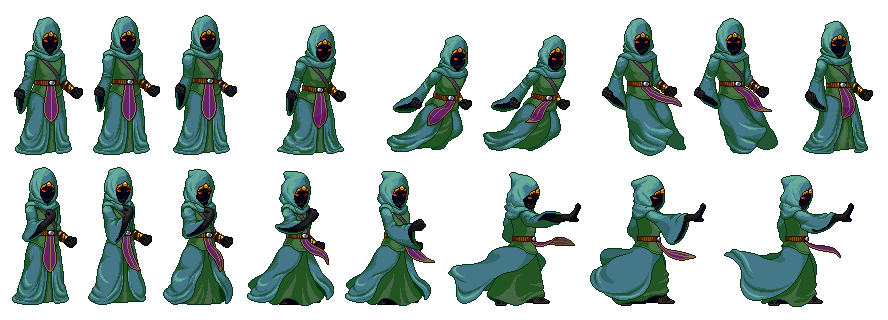
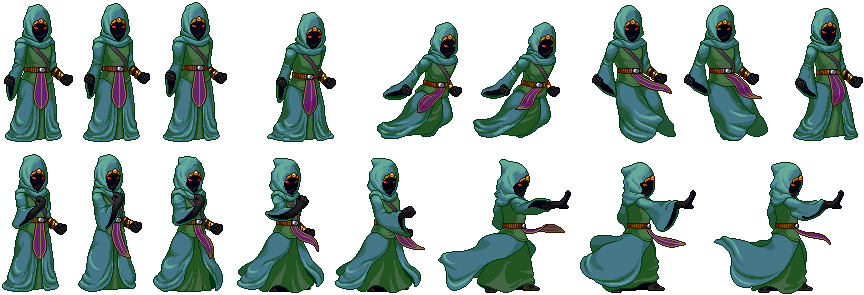
Parte do personagem e cenário prontos, falta tirar animação automatica, adicionar lógica dos botões e colisões

diff --git a/Sabertooth-master/Sabertooth/System.cpp b/Sabertooth-master/Sabertooth/System.cpp
@@ -68,57 +68,61 @@ int System::OpenGLSetup()
 
 int System::SystemSetup()
 {
-	coreShader = Shader( "Shaders/Core/core.vert", "Shaders/Core/core.frag", 3.42, 2, -0.1f, -1.0, -0.7);
-	coreShader2 = Shader("Shaders/Core/core.vert", "Shaders/Core/core.frag", 1.76, 0.64, -1.0f);
-	ceu = Shader("Shaders/Core/core.vert", "Shaders/Core/core.frag", 2, 2, 0.0f, -1.0, -0.8);
-	nuvem = Shader("Shaders/Core/core.vert", "Shaders/Core/core.frag", 2, 0.33, -0.01f,-1.0,0.65);
-	grama = Shader("Shaders/Core/core.vert", "Shaders/Core/core.frag", 3.42, 2, -0.9f);
+	sky = Shader("Shaders/Core/core.vert", "Shaders/Core/core.frag",        2.00f, 2.00f,  0.00f, -1.00f, -0.80f);
+	clouds = Shader("Shaders/Core/core.vert", "Shaders/Core/core.frag",     2.00f, 0.33f, -0.10f, -1.00f,  0.65f);
+	mountains = Shader( "Shaders/Core/core.vert", "Shaders/Core/core.frag", 3.42f, 2.00f, -0.20f, -1.00f, -0.70f);
+	grass = Shader("Shaders/Core/core.vert", "Shaders/Core/core.frag",      3.42f, 2.00f, -0.90f);
+	mage = Shader("Shaders/Core/core.vert", "Shaders/Core/core.frag",       0.402f, 0.432f, -1.00f,  0.00f,  -0.75f, 0.059, 1);
+	
+	
 
-	coreShader.useShader();
-	coreShader2.useShader();
-	ceu.useShader();
-	nuvem.useShader();
-	grama.useShader();
+	mountains.useShader();
+	mage.useShader();
+	sky.useShader();
+	clouds.useShader();
+	grass.useShader();
 
 	return EXIT_SUCCESS;
 }
 
 void System::Run()
 {
-	//load grama
-	grama.useShader();
-	grama.loadTexture("bin/assets/Background/grama.png", "texture1", "layerGrama", true);
-	if (!grama.bindVAO())
+	//load grass
+	grass.useShader();
+	grass.loadTexture("bin/assets/Background/grass.png", "texture1", "grass", true);
+	if (!grass.bindVAO())
 		return;
 
-	//load nuvem
-	nuvem.useShader();
-	nuvem.loadTexture("bin/assets/Background/nuvens.png", "texture1", "layerNuvem", true);
-	if (!nuvem.bindVAO())
+	//load clouds
+	clouds.useShader();
+	clouds.loadTexture("bin/assets/Background/clouds.png", "texture1", "clouds", true);
+	if (!clouds.bindVAO())
 		return;
 
-	//load ceu
-	ceu.useShader();
-	ceu.loadTexture("bin/assets/Background/layer1.png", "texture1", "layer0", true);
-	if (!ceu.bindVAO())
+	//load sky
+	sky.useShader();
+	sky.loadTexture("bin/assets/Background/sky.png", "texture1", "sky", true);
+	if (!sky.bindVAO())
 		return;
 
 	//load mountains
-	coreShader.useShader();
-	coreShader.loadTexture( "bin/assets/Background/layer0.png", "texture1", "layer1", true );
-	if (!coreShader.bindVAO())
+	mountains.useShader();
+	mountains.loadTexture( "bin/assets/Background/mountains2.png", "texture1", "mountains", true );
+	if (!mountains.bindVAO())
 		return;
 	
 	//load mages
-	coreShader2.useShader();
-	coreShader2.loadTexture("bin/assets/Mage/mage_fire.png", "texture1", "mage_fire", false);
-	coreShader2.loadTexture("bin/assets/Mage/mage_water.png", "texture2", "mage_water", false);
-	coreShader2.loadTexture("bin/assets/Mage/mage_wind.png", "texture3", "mage_wind", false);
-	if (!coreShader2.bindVAO())
+	mage.useShader();
+	mage.loadTexture("bin/assets/Mage/mage_fire2.png", "texture1", "mage_fire", false);
+	mage.loadTexture("bin/assets/Mage/mage_water2.png", "texture2", "mage_water", false);
+	mage.loadTexture("bin/assets/Mage/mage_wind2.png", "texture3", "mage_wind", false);
+	if (!mage.bindVAO())
 		return;
 	
 	int teste = 1;
 	float offsetx = 0;
+
+	double offSetXMage = 0;
 
 	while ( !glfwWindowShouldClose( window ) ) {
 
@@ -136,72 +140,76 @@ void System::Run()
 		glClear( GL_COLOR_BUFFER_BIT | GL_DEPTH_BUFFER_BIT );
 
 
-		//ceu update
-		ceu.useShader();
-		ceu.useTexture("layer0");
-		glBindVertexArray(ceu.getVAO());
+		//sky update
+		sky.useShader();
+		sky.useTexture("sky");
+		glBindVertexArray(sky.getVAO());
 		glDrawArrays(GL_TRIANGLES, 0, 6);
 		glBindVertexArray(0);
 
-		//grama update
-		grama.useShader();
-		glUniform1f(glGetUniformLocation(grama.getProgramId(), "offsetx"), offsetx);
-		grama.useTexture("layerGrama");
-		glBindVertexArray(grama.getVAO());
+		//grass update
+		grass.useShader();
+		glUniform1f(glGetUniformLocation(grass.getProgramId(), "offsetx"), offsetx);
+		grass.useTexture("grass");
+		glBindVertexArray(grass.getVAO());
 		glDrawArrays(GL_TRIANGLES, 0, 6);
 		glBindVertexArray(0);
 
-		//nuvem update
-		nuvem.useShader();
-		glUniform1f(glGetUniformLocation(nuvem.getProgramId(), "offsetx"), offsetx/100);
-		nuvem.useTexture("layerNuvem");
-		glBindVertexArray(nuvem.getVAO());
+		//clouds update
+		clouds.useShader();
+		glUniform1f(glGetUniformLocation(clouds.getProgramId(), "offsetx"), offsetx/100);
+		clouds.useTexture("clouds");
+		glBindVertexArray(clouds.getVAO());
 		glDrawArrays(GL_TRIANGLES, 0, 6);
 		glBindVertexArray(0);
 
 		//background update
-		coreShader.useShader();
-		glUniform1f(glGetUniformLocation(coreShader.getProgramId(), "offsetx"), offsetx/60);
-		coreShader.useTexture( "layer1" );
-		glBindVertexArray(coreShader.getVAO());
+		mountains.useShader();
+		glUniform1f(glGetUniformLocation(mountains.getProgramId(), "offsetx"), offsetx/60);
+		mountains.useTexture( "mountains" );
+		glBindVertexArray(mountains.getVAO());
 		glDrawArrays( GL_TRIANGLES, 0, 6 );
 		glBindVertexArray( 0 );
 
 		//Mage update
-		coreShader2.useShader();
+		mage.useShader();
 		
-		if (teste == 1) {
-			GLuint textureActive = glGetUniformLocation(coreShader2.getProgramId(), "textureActive");
-			glUniform1i(textureActive, 1);
-			coreShader2.useTexture("mage_fire");
-			glBindVertexArray(coreShader2.getVAO());
+		/*if (teste == 1) {*/
+			GLuint textureActive = glGetUniformLocation(mage.getProgramId(), "textureActive");
+			glUniform1i(textureActive, 3);
+			glUniform1f(glGetUniformLocation(mage.getProgramId(), "offsetx"), offSetXMage);
+			mage.useTexture("mage_wind");
+			glBindVertexArray(mage.getVAO());
 			glDrawArrays(GL_TRIANGLES, 0, 6);
 			glBindVertexArray(0);
-		}
+		//}
 
-		else if (teste == 2)
+		/*else if (teste == 2)
 		{
-			GLuint textureActive = glGetUniformLocation(coreShader2.getProgramId(), "textureActive");
+			GLuint textureActive = glGetUniformLocation(mage.getProgramId(), "textureActive");
 			glUniform1i(textureActive, 2);
-			coreShader2.useTexture("mage_water");
-			glBindVertexArray(coreShader2.getVAO());
+			mage.useTexture("mage_water");
+			glBindVertexArray(mage.getVAO());
 			glDrawArrays(GL_TRIANGLES, 0, 6);
 			glBindVertexArray(0);
 		}
 
 		else
 		{
-			GLuint textureActive = glGetUniformLocation(coreShader2.getProgramId(), "textureActive");
+			GLuint textureActive = glGetUniformLocation(mage.getProgramId(), "textureActive");
 			glUniform1i(textureActive, 3);
-			coreShader2.useTexture("mage_wind");
-			glBindVertexArray(coreShader2.getVAO());
+			mage.useTexture("mage_wind");
+			glBindVertexArray(mage.getVAO());
 			glDrawArrays(GL_TRIANGLES, 0, 6);
 			glBindVertexArray(0);
-		}
+		}*/
 
 		if (teste == 1) teste = 2;
 		else if (teste == 2) teste = 3;
 		else teste = 1; 
+
+		if (offSetXMage >= 0.941176463) { offSetXMage = 0.058823529; }
+		else offSetXMage += 0.058823529;
 
 		if (offsetx >= 2147483647)
 		{
@@ -216,7 +224,7 @@ void System::Run()
 			offsetx += 0.1;
 		}
 
-		//delay(300);
+		delay(120);
 		
 		glfwSwapBuffers( window );
 	}
@@ -224,6 +232,10 @@ void System::Run()
 
 void System::Finish()
 {
-	coreShader.deleteShader();
+	mountains.deleteShader();
+	mage.deleteShader();
+	sky.deleteShader();
+	clouds.deleteShader();
+	grass.deleteShader();
 	glfwTerminate();
 }

diff --git a/Sabertooth-master/Sabertooth/Shader.h b/Sabertooth-master/Sabertooth/Shader.h
@@ -34,6 +34,7 @@ public:
 	Shader(const GLchar* vertexPath, const GLchar* fragmentPath);
 	Shader(const GLchar* pChrVertexPath, const GLchar* pChrFragmentPath, GLfloat pFltWidth, GLfloat pFltHeigth, GLfloat pFltLayer);
 	Shader(const GLchar* pChrVertexPath, const GLchar* pChrFragmentPath, GLfloat pFltWidth, GLfloat pFltHeigth, GLfloat pFltLayer, GLfloat pFltPosX, GLfloat pFltPosY);
+	Shader(const GLchar* pChrVertexPath, const GLchar* pChrFragmentPath, GLfloat pFltWidth, GLfloat pFltHeigth, GLfloat pFltLayer, GLfloat pFltPosX, GLfloat pFltPosY, GLfloat pFltTexX, GLfloat pFltTexY);
 
 	~Shader();
 

diff --git a/Sabertooth-master/Sabertooth/System.h b/Sabertooth-master/Sabertooth/System.h
@@ -34,11 +34,11 @@ private:
 public:
 	GLFWwindow* window;
 
-	Shader coreShader;
-	Shader coreShader2;
-	Shader ceu;
-	Shader nuvem;
-	Shader grama;
+	Shader mountains;
+	Shader mage;
+	Shader sky;
+	Shader clouds;
+	Shader grass;
 
 public:
 	System();
